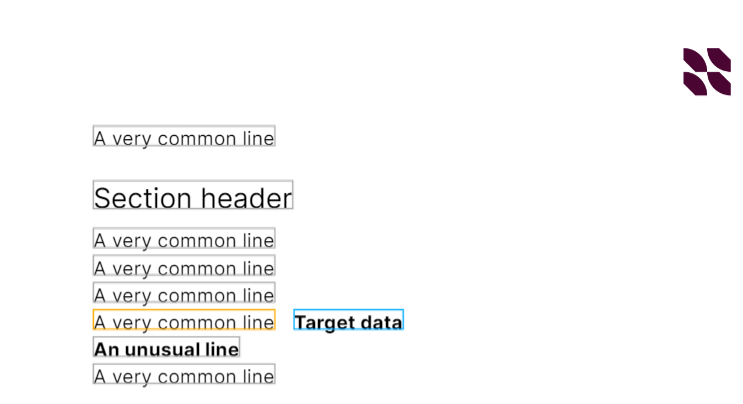
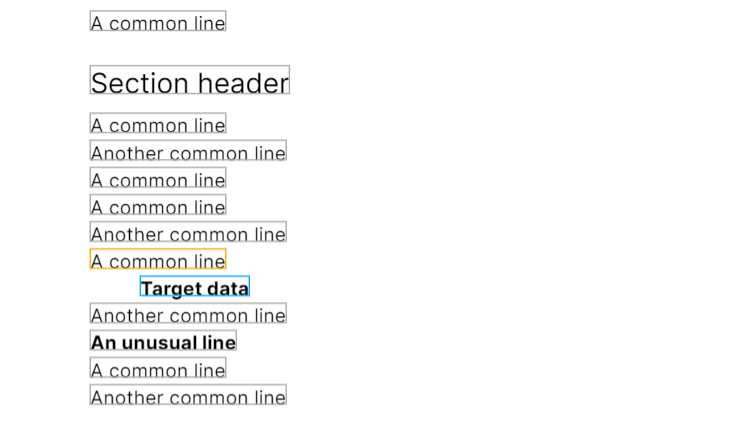
reverse polish

Changed region(s): [[0.1238, 0.1485, 0.5572, 0.9505], [0.1238, 0.0, 0.3096, 0.0891], [0.8977, 0.1188, 0.9906, 0.2376]]

diff --git a/readme-sync/v0/senseml-reference/2000 - field-query-object/1100 - draft-match.md b/readme-sync/v0/senseml-reference/2000 - field-query-object/1100 - draft-match.md
@@ -36,12 +36,12 @@ The following parameters are available to most types of Match objects:
 | ------------- | ----------------------- | ------------------------------------------------------------ |
 | minimumHeight | number                  | The minimum height of the matched line's boundaries, in inches. Not valid as a top-level parameter for an Any match, but valid for individual matches in the Any match. |
 | maximumHeight | number                  | The maximum height of the matched line's boundaries, in inches.  Not valid as a top-level parameter for an Any match, but valid for individual matches in the Any match. |
-| reverse       | boolean. default: false | Use with match arrays. Use with any match object except the first in the array.<br/>  If true, searches for a match in lines that precede the previous match in the array. For example, in an array with matches A and B, if B is a First match with `"reverse":true`, then Sensible matches the first line that *precedes* the line matched by A. For a more detailed example, see [Reverse match](doc:match#reverse-match). |
+| reverse       | boolean. default: false | Use with match arrays. Do not use with the first match in the array.<br/>  If true, searches for a match in lines that precede the previous match in the array. For example, in an array with matches A and B, if B is a First match with `"reverse":true`, then Sensible matches the first line that *precedes* the line matched by A. For a more detailed example, see [Reverse match](doc:match#reverse-match). |
 
 Reverse match
 ---
 
-Use the Reverse parameter in situations where an easy-to-match line succeeds a difficult target line. You can match the easy line, then set `"reverse:true"` to search preceding lines until you match the difficult line. 
+Use the Reverse parameter in situations where an easy-to-match line follows a difficult target line. You can match the easy line, then set `"reverse:true"` to search preceding lines until you match the difficult line. 
 
 **Config**
 
@@ -50,27 +50,27 @@ Use the Reverse parameter in situations where an easy-to-match line succeeds a d
   "fields": [
     {
       "id": "reverse_example",
-      "match": "last",
       "anchor": {
         "match": [
           {
-            "type": "includes",
-            "text": "section header",
+            "type": "startsWith",
+            "text": "section header"
           },
           {
-            "type": "includes",
-            "text": "an unusual line",
+            "type": "startsWith",
+            "text": "an unusual line"
           },
           {
-            "type": "includes",
-            "text": "a very common line",
-            "reverse":true
-          },
+            "type": "startsWith",
+            "text": "a common line",
+            "reverse": true
+          }
         ]
       },
       "method": {
-        "id": "row",
-        "position": "right"
+        "id": "label",
+        "position": "below",
+        "textAlignment": "hangingIndent"
       }
     }
   ]
@@ -101,6 +101,6 @@ The following image shows the example PDF used with this example config:
 
 **Notes**
 
-Sensible searches for anchor candidates in sequence, and rules out overlapping candidates. In other words, once Sensible identifies an anchor candidate, it rules out that anchor line and all preceding lines when searching for the next candidate. The following image illustrates this behavior for the example config:
+Sensible searches for anchor candidates in sequence, and rules out overlapping candidates. In other words, after Sensible identifies an anchor candidate, it ignores that anchor line and its preceding lines when searching for the next candidate. The following image illustrates this behavior for the example config:
 
 ![Click to enlarge](https://raw.githubusercontent.com/sensible-hq/sensible-docs/main/readme-sync/assets/v0/images/final/reverse_2.png)
